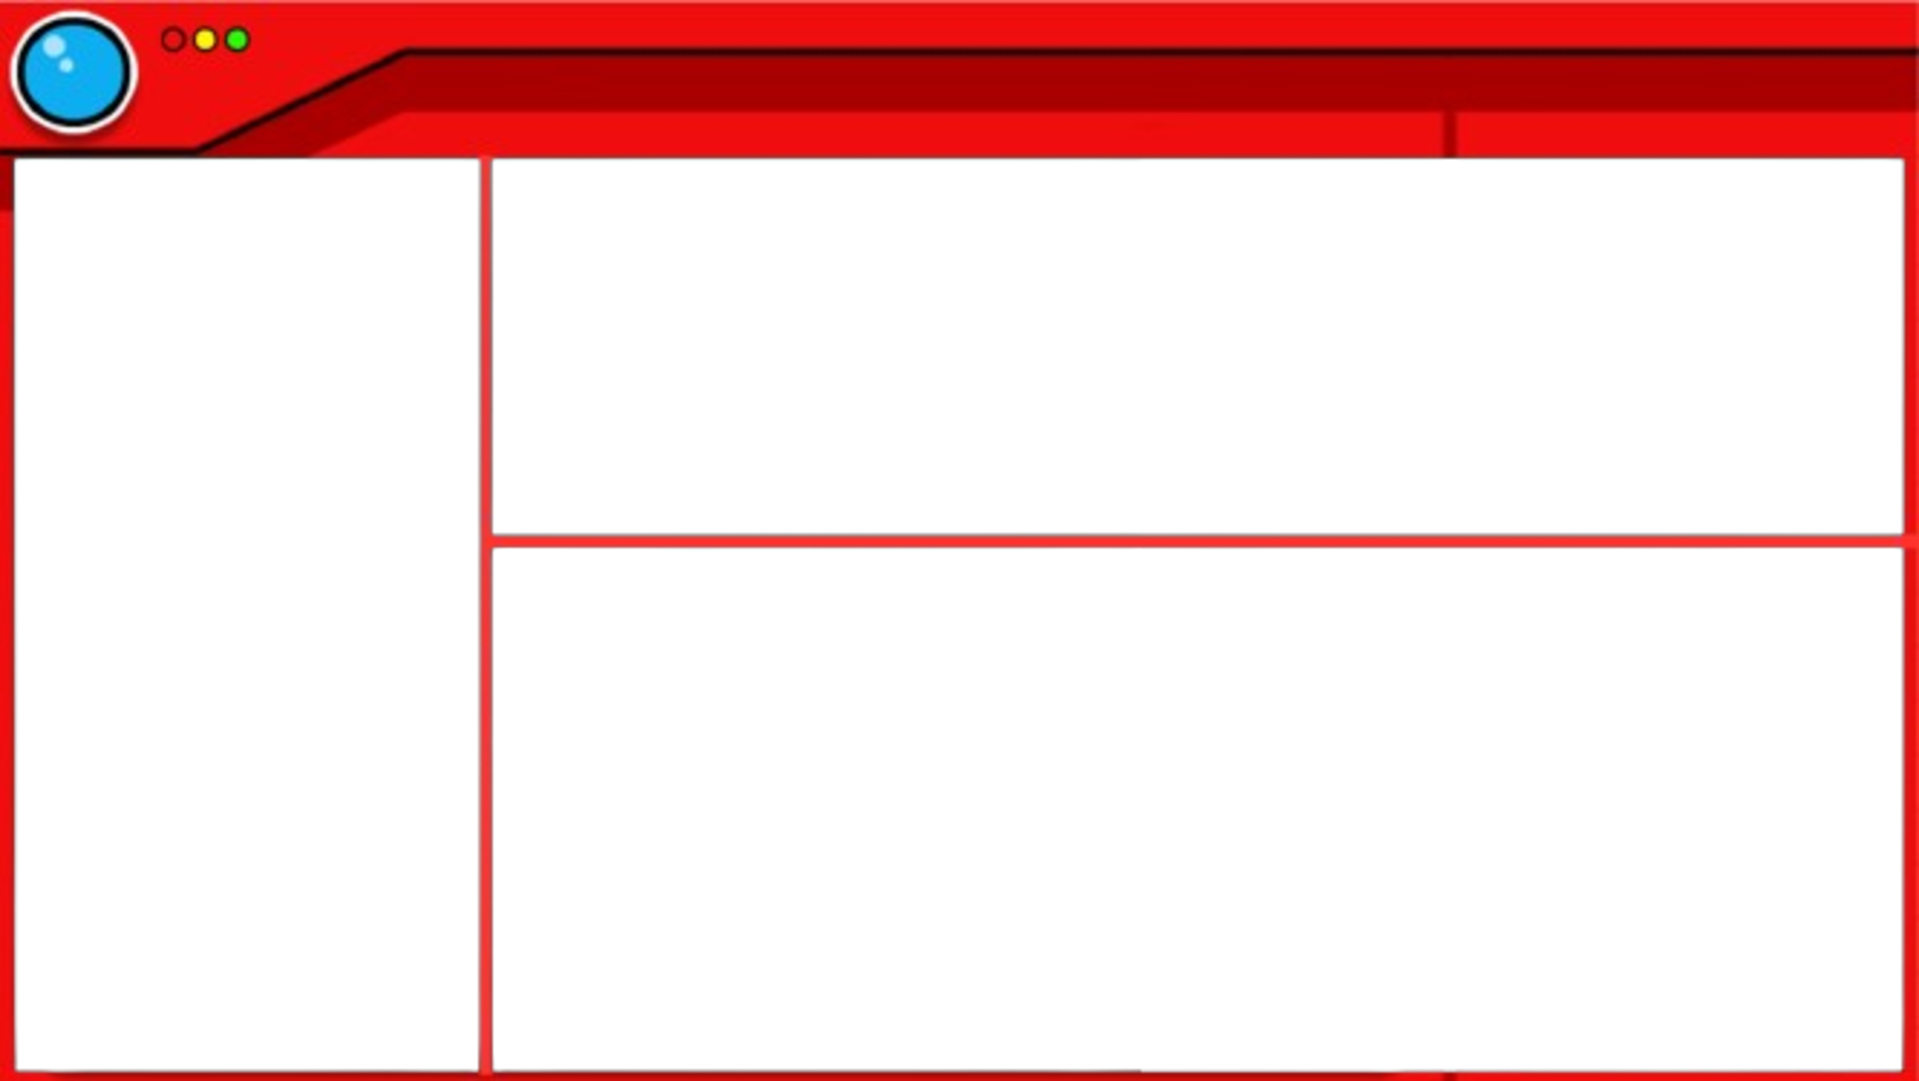
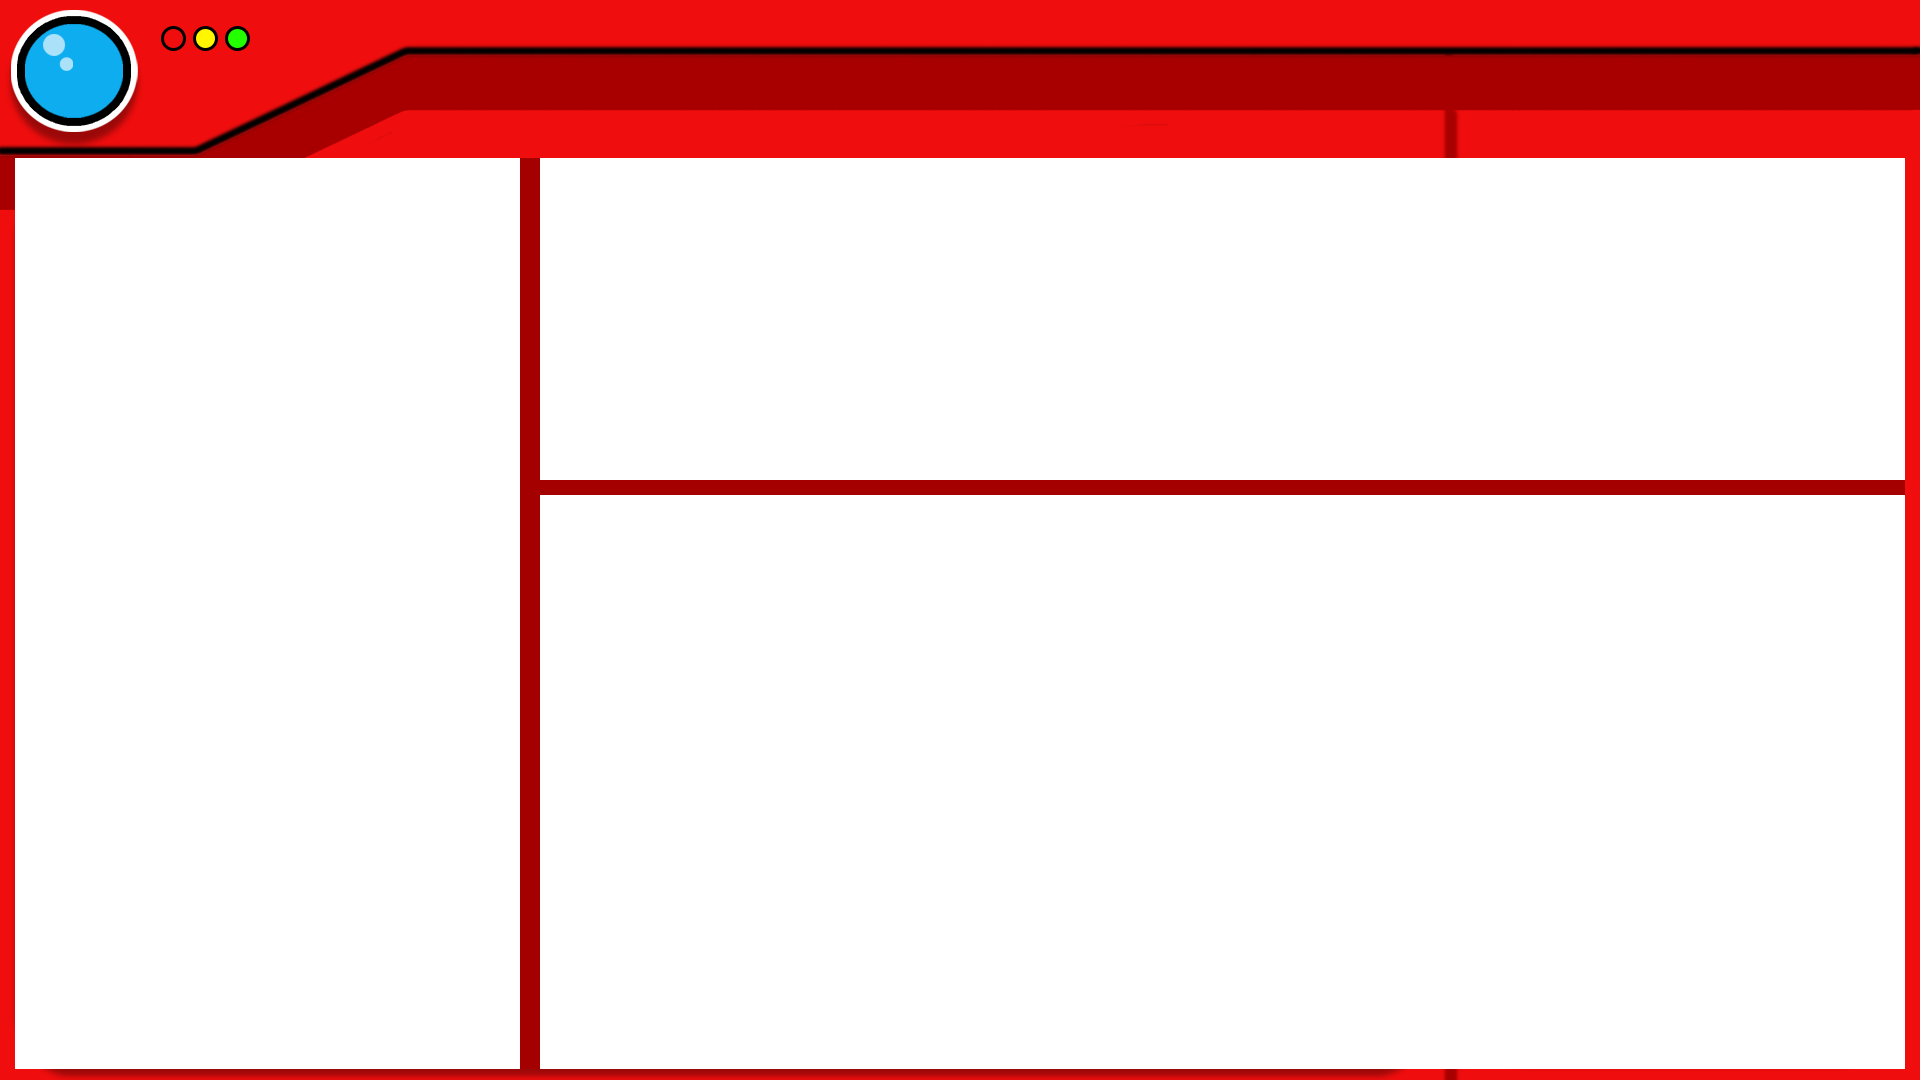
pagina mais informações formatada

Changed region(s): [[0.0, 0.0, 1.0, 1.0]]

diff --git a/src/pages/MoreInfo.jsx b/src/pages/MoreInfo.jsx
@@ -3,19 +3,22 @@ import { FaHeart, FaStar } from "react-icons/fa";
 import { Link } from "react-router-dom";
 import Infos from "../assets/images/Infos.png";
 import "../styles/MoreInfo.css";
+import HomeButton from '../components/HomeButton';
 
 function MoreInfo() {
 
     return (
         <div className="moreinfo">
             <img src={Infos} alt="Infos"className="background"/>
+            <HomeButton imageSize="50px" className='HomeButton'/>
+
             
 
             <Link to="/favorites" className="favoritebtn">
-                <button className="favorites-btn">Favoritos<FaStar /></button>
+                <button className="favorites-btn">Favoritos <FaStar /></button>
             </Link>
 
-            <button className="add-favorites">Adicionar aos Favoritos<FaHeart /></button>
+            <button className="add-favorites">Adicionar aos Favoritos <FaHeart /></button>
 
         </div>
     );

diff --git a/src/styles/MoreInfo.css b/src/styles/MoreInfo.css
@@ -11,8 +11,8 @@
     margin: 0; 
     cursor: pointer; 
     border-radius: 5px; 
-    left: 1300px;
-    top: 270px;
+    left: 135vh;
+    top: 13.5vw;
     transition: background-color 0.3s; 
     &:hover {
       background-color: #45a049;
@@ -32,8 +32,8 @@
     margin: 0; 
     cursor: pointer; 
     border-radius: 5px; 
-    left: 800px;
-    top: 270px;
+    left: 75vh;
+    top: 13.5vw;
     transition: background-color 0.3s; 
     &:hover {
       background-color: #45a049;
@@ -42,9 +42,14 @@
 
 .background {
   width: 100%;
-  height: 100%;
-  object-fit: cover;
-  position: fixed;
-  top: 0;
-  left: 0;
+    height: 100%;
+    position: fixed;
+    top: 0;
+    left: 0;
+}
+
+.homeButton{
+  position: relative;
+  left: -47vw;
+  top: -31vh;
 }

diff --git a/src/components/HomeButton.jsx b/src/components/HomeButton.jsx
@@ -3,11 +3,11 @@ import homeImage from '../assets/images/home.png';
 import { Link } from "react-router-dom"
 
 
-function HomeButton({imageSize}) {
+function HomeButton({imageSize, className}) {
 
     return (
         <Link to="/" className='homeButton'>
-            <img src={homeImage} alt='Home' style={{width: imageSize, height: 'auto' }} />
+            <img src={homeImage} className={className} alt='Home' style={{width: imageSize, height: 'auto' }} />
         </Link>
     )
 
